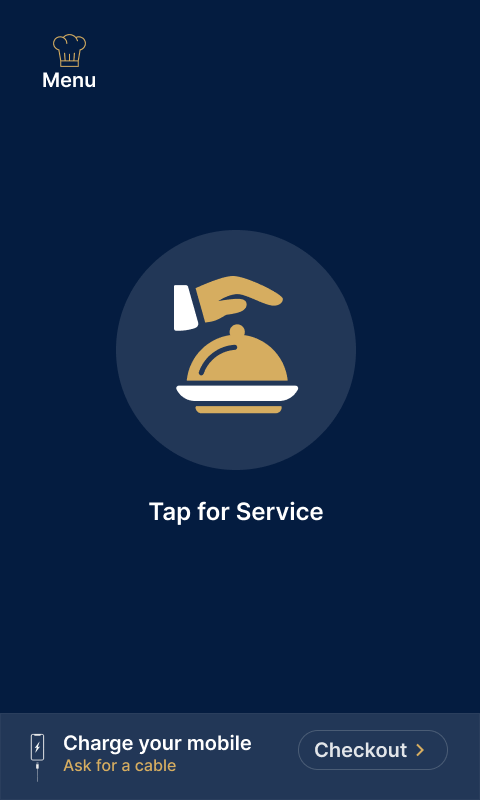
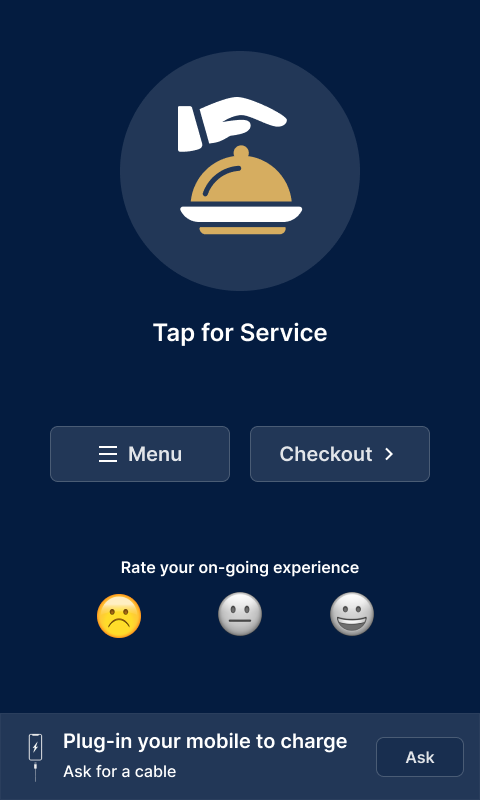
ADD: screen changes

diff --git a/qt-app/main.py b/qt-app/main.py
@@ -14,6 +14,7 @@ import urllib.request
 import requests
 from api import startHangout,callWaiter, waiterArrived,sendRatings,sendHangout,startServiceCall,endServiceCall, serviceDelayed, notifyExperience, addMultipleRatings, fetchTableId, getConfig, getAllTables,waiterExists
 from api import startHangoutFailureHandler,callWaiterFailureHandler,waiterArrivedFailureHandler,addMultipleRatingsFailureHandler,isTableOccupied,changeDevice,getRestartApp,setRestartAppFalse
+from api import notifyFeelingBad,notifyFeelingHappy,notifyFeelingNeutral
 import threading
 from subprocess import Popen
 import json
@@ -815,12 +816,22 @@ class TapForServiceScreen(QDialog):
         self.goToNextButton.clicked.connect(self.navigateToCloseServiceScreen)
         self.menuButton.clicked.connect(self.navigateToDinerActionMenu)
         self.checkoutButton.clicked.connect(self.navigateToCheckoutScreen)
+        self.happyButton.clicked.connect(self.notifyHappy)
+        self.sadButton.clicked.connect(self.notifySad)
+        self.neutralButton.clicked.connect(self.notifyNeutral)
         # slider = self.experienceSlider
         # slider.setMinimum(0)
         # slider.setMaximum(10)
         # slider.valueChanged.connect(self.onExperienceChanged)
         # slider.sliderReleased.connect(self.experienceMarked)
 
+    def notifyHappy(self):
+        qWorker.addAPICall(notifyFeelingHappy,[getHangoutId(),waiterId,getRestaurantId(),getTableId()])
+    def notifySad(self):
+        qWorker.addAPICall(notifyFeelingBad,[getHangoutId(),waiterId,getRestaurantId(),getTableId()])
+    def notifyNeutral(self):
+        qWorker.addAPICall(notifyFeelingNeutral,[getHangoutId(),waiterId,getRestaurantId(),getTableId()])
+    
     def onExperienceChanged(self, value):
         print(value)
         if (value >= 6):
@@ -884,8 +895,18 @@ class CloseServiceScreen(QDialog):
         self.goToNextButton.clicked.connect(self.navigateToTapForServiceScreen)
         self.menuButton.clicked.connect(self.navigateToDinerActionMenu)
         self.checkoutButton.clicked.connect(self.navigateToCheckoutScreen)
+        self.happyButton.clicked.connect(self.notifyHappy)
+        self.sadButton.clicked.connect(self.notifySad)
+        self.neutralButton.clicked.connect(self.notifyNeutral)
         # thr.join()
-    
+
+    def notifyHappy(self):
+        qWorker.addAPICall(notifyFeelingHappy,[getHangoutId(),waiterId,getRestaurantId(),getTableId()])
+    def notifySad(self):
+        qWorker.addAPICall(notifyFeelingBad,[getHangoutId(),waiterId,getRestaurantId(),getTableId()])
+    def notifyNeutral(self):
+        qWorker.addAPICall(notifyFeelingNeutral,[getHangoutId(),waiterId,getRestaurantId(),getTableId()])
+       
     def clear(self):
         global restartApplication
         

diff --git a/qt-app/api.py b/qt-app/api.py
@@ -229,6 +229,31 @@ def makeDeviceOnline(hangoutId):
     url = BASE_URL + "/hangouts/" + hangoutId +"/online"
     response = requests.get(url,timeout=TIMEOUT)
 
+def notifyFeelingBad(hangout,waiter,restaurant,table):
+    response = requests.post(BASE_URL + "/pod-events", json={
+        "table": table,
+        "hangout": hangout,
+        "waiter":waiter,
+        "restaurant":restaurant,
+        "type": "CUSTOMER_SAD",
+    })
+def notifyFeelingNeutral(hangout,waiter,restaurant,table):
+    response = requests.post(BASE_URL + "/pod-events", json={
+        "table": table,
+        "hangout": hangout,
+        "waiter":waiter,
+        "restaurant":restaurant,
+        "type": "CUSTOMER_NEUTRAL",
+    })
+def notifyFeelingHappy(hangout,waiter,restaurant,table):
+    response = requests.post(BASE_URL + "/pod-events", json={
+        "table": table,
+        "hangout": hangout,
+        "waiter":waiter,
+        "restaurant":restaurant,
+        "type": "CUSTOMER_HAPPY",
+    })
+
 apiDict ={
     "getConfig":getConfig,
     "startHangout":startHangout,

diff --git a/qt-app/config/config.py b/qt-app/config/config.py
@@ -1,2 +1,2 @@
-API_URL="https://api.woobly.squareboat.info"
-# API_URL="http://localhost:3000"
+# API_URL="https://api.woobly.squareboat.info"
+API_URL="http://localhost:3000"
